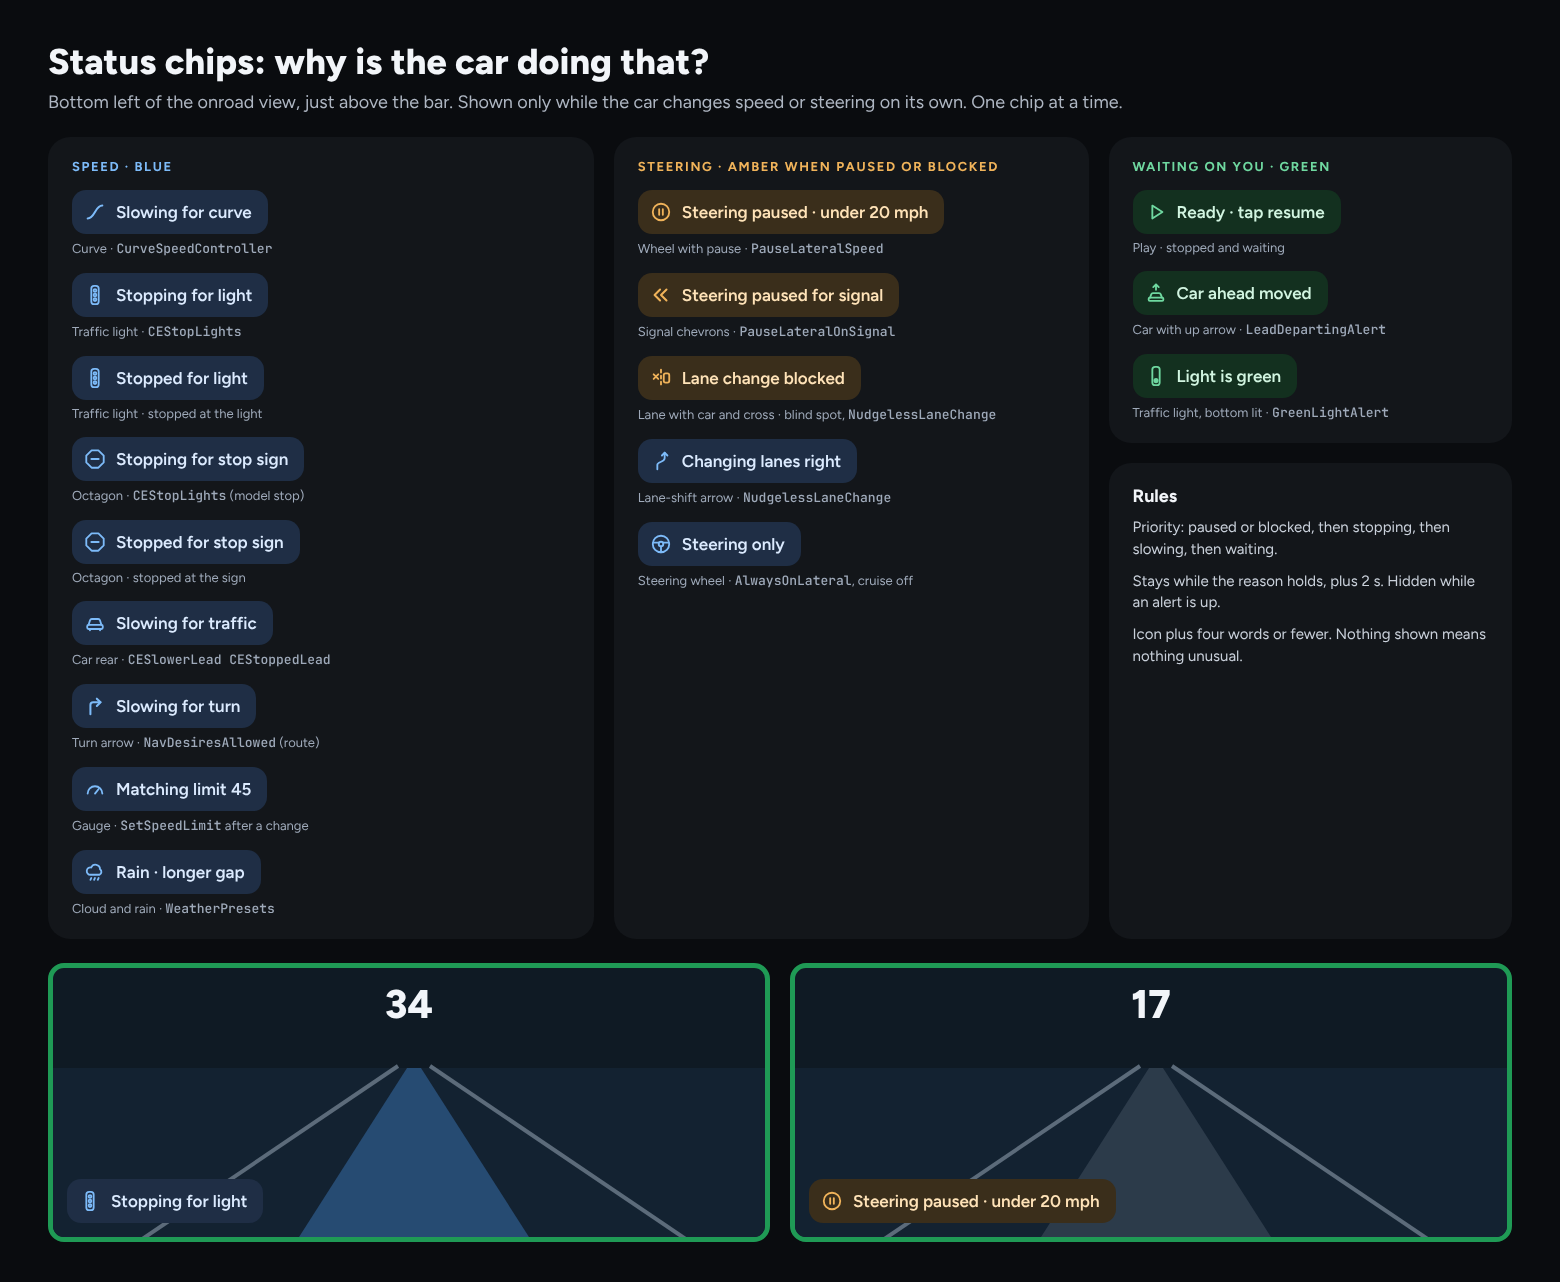
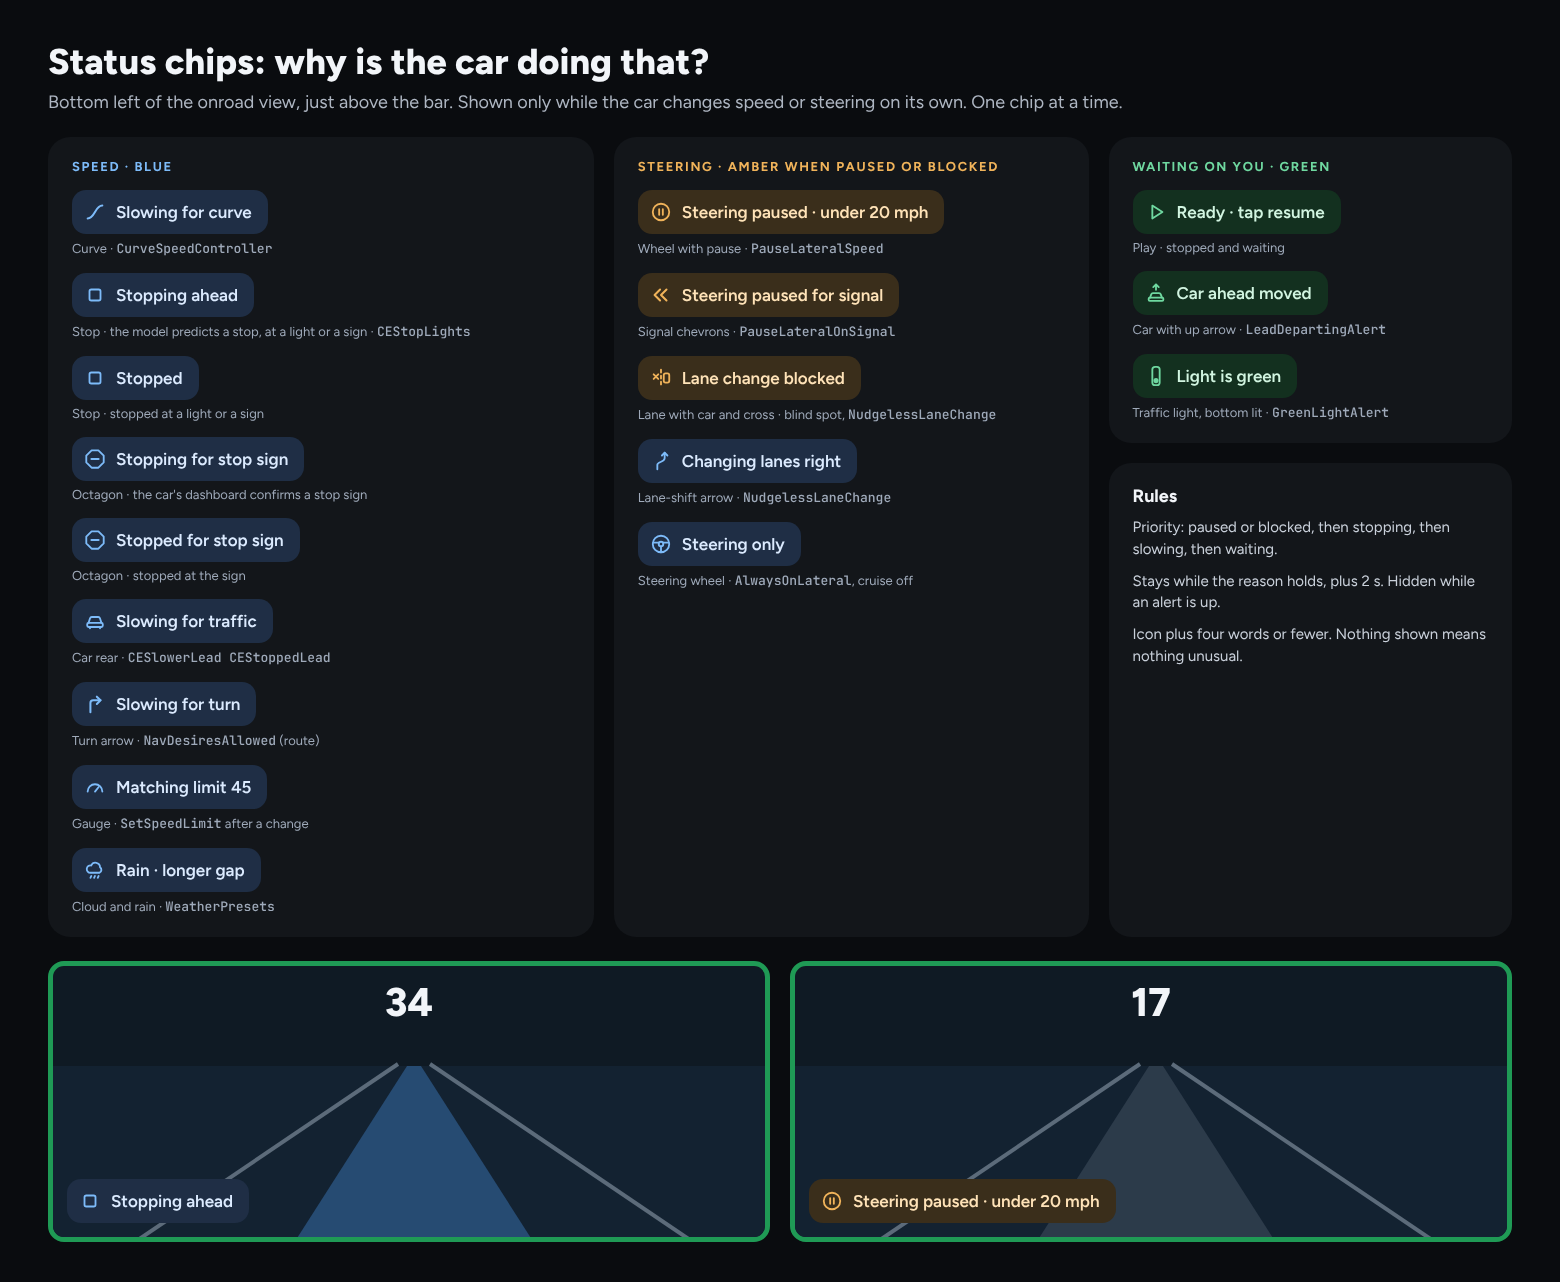
Status chips mock: Stopping ahead and Stopped, as built
The model's stop chips read "Stopping ahead" and "Stopped" with a plain
stop icon, here and in the onroad example, and the stop sign chips say they
come from the car's dashboard confirming a sign.

Claude-Session: https://claude.ai/code/session_01R4pPc2hcx88Dbjjec1p8WC

diff --git a/selfdrive/ui/tandem/design/statuschips.html b/selfdrive/ui/tandem/design/statuschips.html
@@ -27,16 +27,16 @@ a{color:#7DBBF9}a:hover{color:#A9D3FB}
         <span style="font-size: 13px; color: #9FAABA;">Curve · <span style="font-family: 'JetBrains Mono', monospace;">CurveSpeedController</span></span>
       </div>
       <div style="display: flex; flex-direction: column; gap: 6px;">
-        <div style="align-self: flex-start; display: flex; align-items: center; gap: 10px; height: 44px; padding: 0 16px 0 12px; border-radius: 14px; background: #1F2E45; color: #DCEBFF; font-size: 17px; font-weight: 600;"><svg width="22" height="22" viewBox="0 0 24 24" fill="none" stroke="#7DBBF9" stroke-width="2" stroke-linecap="round" stroke-linejoin="round" aria-hidden="true"><rect x="8" y="2" width="8" height="20" rx="3"></rect><circle cx="12" cy="7" r="1.5"></circle><circle cx="12" cy="12" r="1.5"></circle><circle cx="12" cy="17" r="1.5"></circle></svg>Stopping for light</div>
-        <span style="font-size: 13px; color: #9FAABA;">Traffic light · <span style="font-family: 'JetBrains Mono', monospace;">CEStopLights</span></span>
+        <div style="align-self: flex-start; display: flex; align-items: center; gap: 10px; height: 44px; padding: 0 16px 0 12px; border-radius: 14px; background: #1F2E45; color: #DCEBFF; font-size: 17px; font-weight: 600;"><svg width="22" height="22" viewBox="0 0 24 24" fill="none" stroke="#7DBBF9" stroke-width="2" stroke-linecap="round" stroke-linejoin="round" aria-hidden="true"><rect x="6" y="6" width="12" height="12" rx="2"></rect></svg>Stopping ahead</div>
+        <span style="font-size: 13px; color: #9FAABA;">Stop · the model predicts a stop, at a light or a sign · <span style="font-family: 'JetBrains Mono', monospace;">CEStopLights</span></span>
       </div>
       <div style="display: flex; flex-direction: column; gap: 6px;">
-        <div style="align-self: flex-start; display: flex; align-items: center; gap: 10px; height: 44px; padding: 0 16px 0 12px; border-radius: 14px; background: #1F2E45; color: #DCEBFF; font-size: 17px; font-weight: 600;"><svg width="22" height="22" viewBox="0 0 24 24" fill="none" stroke="#7DBBF9" stroke-width="2" stroke-linecap="round" stroke-linejoin="round" aria-hidden="true"><rect x="8" y="2" width="8" height="20" rx="3"></rect><circle cx="12" cy="7" r="1.5"></circle><circle cx="12" cy="12" r="1.5"></circle><circle cx="12" cy="17" r="1.5"></circle></svg>Stopped for light</div>
-        <span style="font-size: 13px; color: #9FAABA;">Traffic light · stopped at the light</span>
+        <div style="align-self: flex-start; display: flex; align-items: center; gap: 10px; height: 44px; padding: 0 16px 0 12px; border-radius: 14px; background: #1F2E45; color: #DCEBFF; font-size: 17px; font-weight: 600;"><svg width="22" height="22" viewBox="0 0 24 24" fill="none" stroke="#7DBBF9" stroke-width="2" stroke-linecap="round" stroke-linejoin="round" aria-hidden="true"><rect x="6" y="6" width="12" height="12" rx="2"></rect></svg>Stopped</div>
+        <span style="font-size: 13px; color: #9FAABA;">Stop · stopped at a light or a sign</span>
       </div>
       <div style="display: flex; flex-direction: column; gap: 6px;">
         <div style="align-self: flex-start; display: flex; align-items: center; gap: 10px; height: 44px; padding: 0 16px 0 12px; border-radius: 14px; background: #1F2E45; color: #DCEBFF; font-size: 17px; font-weight: 600;"><svg width="22" height="22" viewBox="0 0 24 24" fill="none" stroke="#7DBBF9" stroke-width="2" stroke-linecap="round" stroke-linejoin="round" aria-hidden="true"><path d="M8.3 2.5h7.4l5.8 5.8v7.4l-5.8 5.8H8.3l-5.8-5.8V8.3z"></path><path d="M8 12h8"></path></svg>Stopping for stop sign</div>
-        <span style="font-size: 13px; color: #9FAABA;">Octagon · <span style="font-family: 'JetBrains Mono', monospace;">CEStopLights</span> (model stop)</span>
+        <span style="font-size: 13px; color: #9FAABA;">Octagon · the car's dashboard confirms a stop sign</span>
       </div>
       <div style="display: flex; flex-direction: column; gap: 6px;">
         <div style="align-self: flex-start; display: flex; align-items: center; gap: 10px; height: 44px; padding: 0 16px 0 12px; border-radius: 14px; background: #1F2E45; color: #DCEBFF; font-size: 17px; font-weight: 600;"><svg width="22" height="22" viewBox="0 0 24 24" fill="none" stroke="#7DBBF9" stroke-width="2" stroke-linecap="round" stroke-linejoin="round" aria-hidden="true"><path d="M8.3 2.5h7.4l5.8 5.8v7.4l-5.8 5.8H8.3l-5.8-5.8V8.3z"></path><path d="M8 12h8"></path></svg>Stopped for stop sign</div>
@@ -115,7 +115,7 @@ a{color:#7DBBF9}a:hover{color:#A9D3FB}
         <path d="M354 100 L368 100 L483 280 L239 280 Z" fill="#3A73B3" fill-opacity="0.5"></path>
       </svg>
       <div style="position: absolute; left: 50%; top: 12px; transform: translateX(-50%); font-size: 40px; font-weight: 800;">34</div>
-      <div style="position: absolute; left: 14px; bottom: 14px; display: flex; align-items: center; gap: 10px; height: 44px; padding: 0 16px 0 12px; border-radius: 14px; background: #1F2E45; color: #DCEBFF; font-size: 17px; font-weight: 600;"><svg width="22" height="22" viewBox="0 0 24 24" fill="none" stroke="#7DBBF9" stroke-width="2" stroke-linecap="round" stroke-linejoin="round" aria-hidden="true"><rect x="8" y="2" width="8" height="20" rx="3"></rect><circle cx="12" cy="7" r="1.5"></circle><circle cx="12" cy="12" r="1.5"></circle><circle cx="12" cy="17" r="1.5"></circle></svg>Stopping for light</div>
+      <div style="position: absolute; left: 14px; bottom: 14px; display: flex; align-items: center; gap: 10px; height: 44px; padding: 0 16px 0 12px; border-radius: 14px; background: #1F2E45; color: #DCEBFF; font-size: 17px; font-weight: 600;"><svg width="22" height="22" viewBox="0 0 24 24" fill="none" stroke="#7DBBF9" stroke-width="2" stroke-linecap="round" stroke-linejoin="round" aria-hidden="true"><rect x="6" y="6" width="12" height="12" rx="2"></rect></svg>Stopping ahead</div>
     </div>
     <div style="border: 5px solid #1F9A55; border-radius: 16px; background: #0F1A24; position: relative; overflow: hidden;">
       <svg width="722" height="280" viewBox="0 0 722 280" style="position: absolute; left: 0; top: 0;" aria-hidden="true">

diff --git a/selfdrive/ui/tandem/design/README.md b/selfdrive/ui/tandem/design/README.md
@@ -147,7 +147,7 @@ The bottom-left corner of the onroad view, just above the bar, answers "why is t
 | --- | --- | --- | --- |
 | Slowing for curve | Curve | Blue | `CurveSpeedController` |
 | Stopping ahead (Stopped once stopped) | Stop | Blue | `CEStopLights`: the model predicts a stop, at a light or a sign |
-| Stopping for stop sign (Stopped for stop sign once stopped) | Octagon | Blue | `CEStopLights` (model stop detection) |
+| Stopping for stop sign (Stopped for stop sign once stopped) | Octagon | Blue | The car's dashboard confirms a stop sign (`stopSignConfirmed`) |
 | Slowing for traffic | Car rear | Blue | `CESlowerLead`, `CEStoppedLead` |
 | Slowing for turn | Turn arrow | Blue | `NavDesiresAllowed`, while a route is active |
 | Matching limit 45 | Gauge | Blue | `SetSpeedLimit`, after a limit change |
